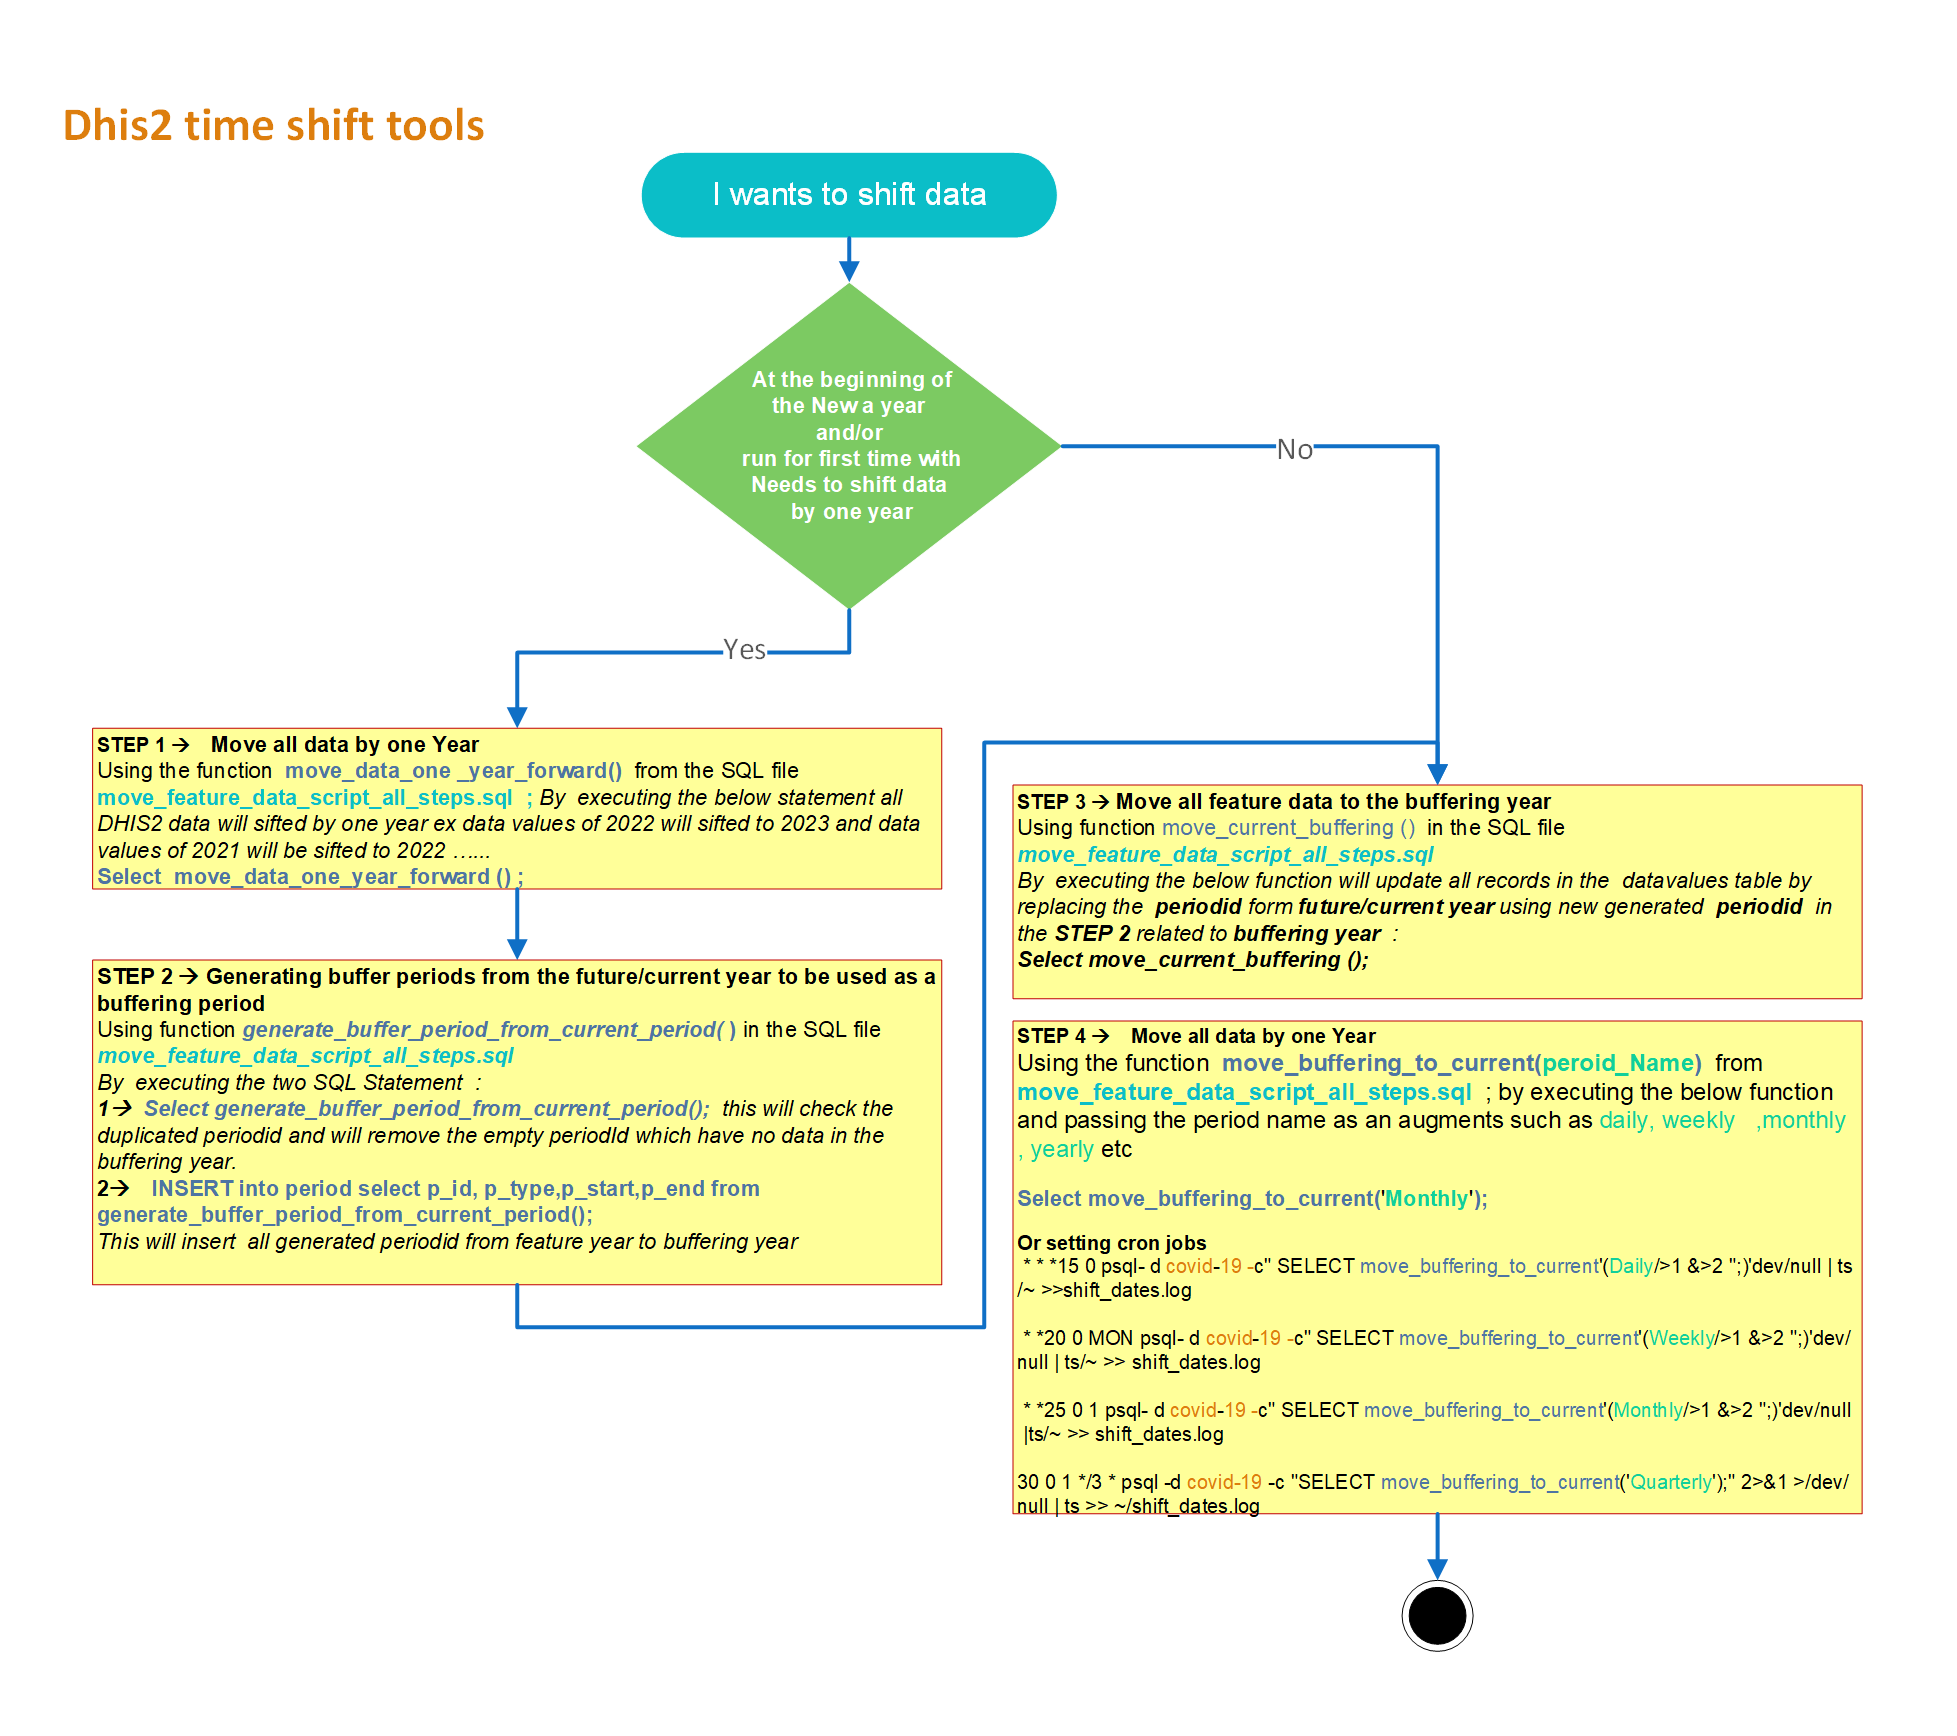
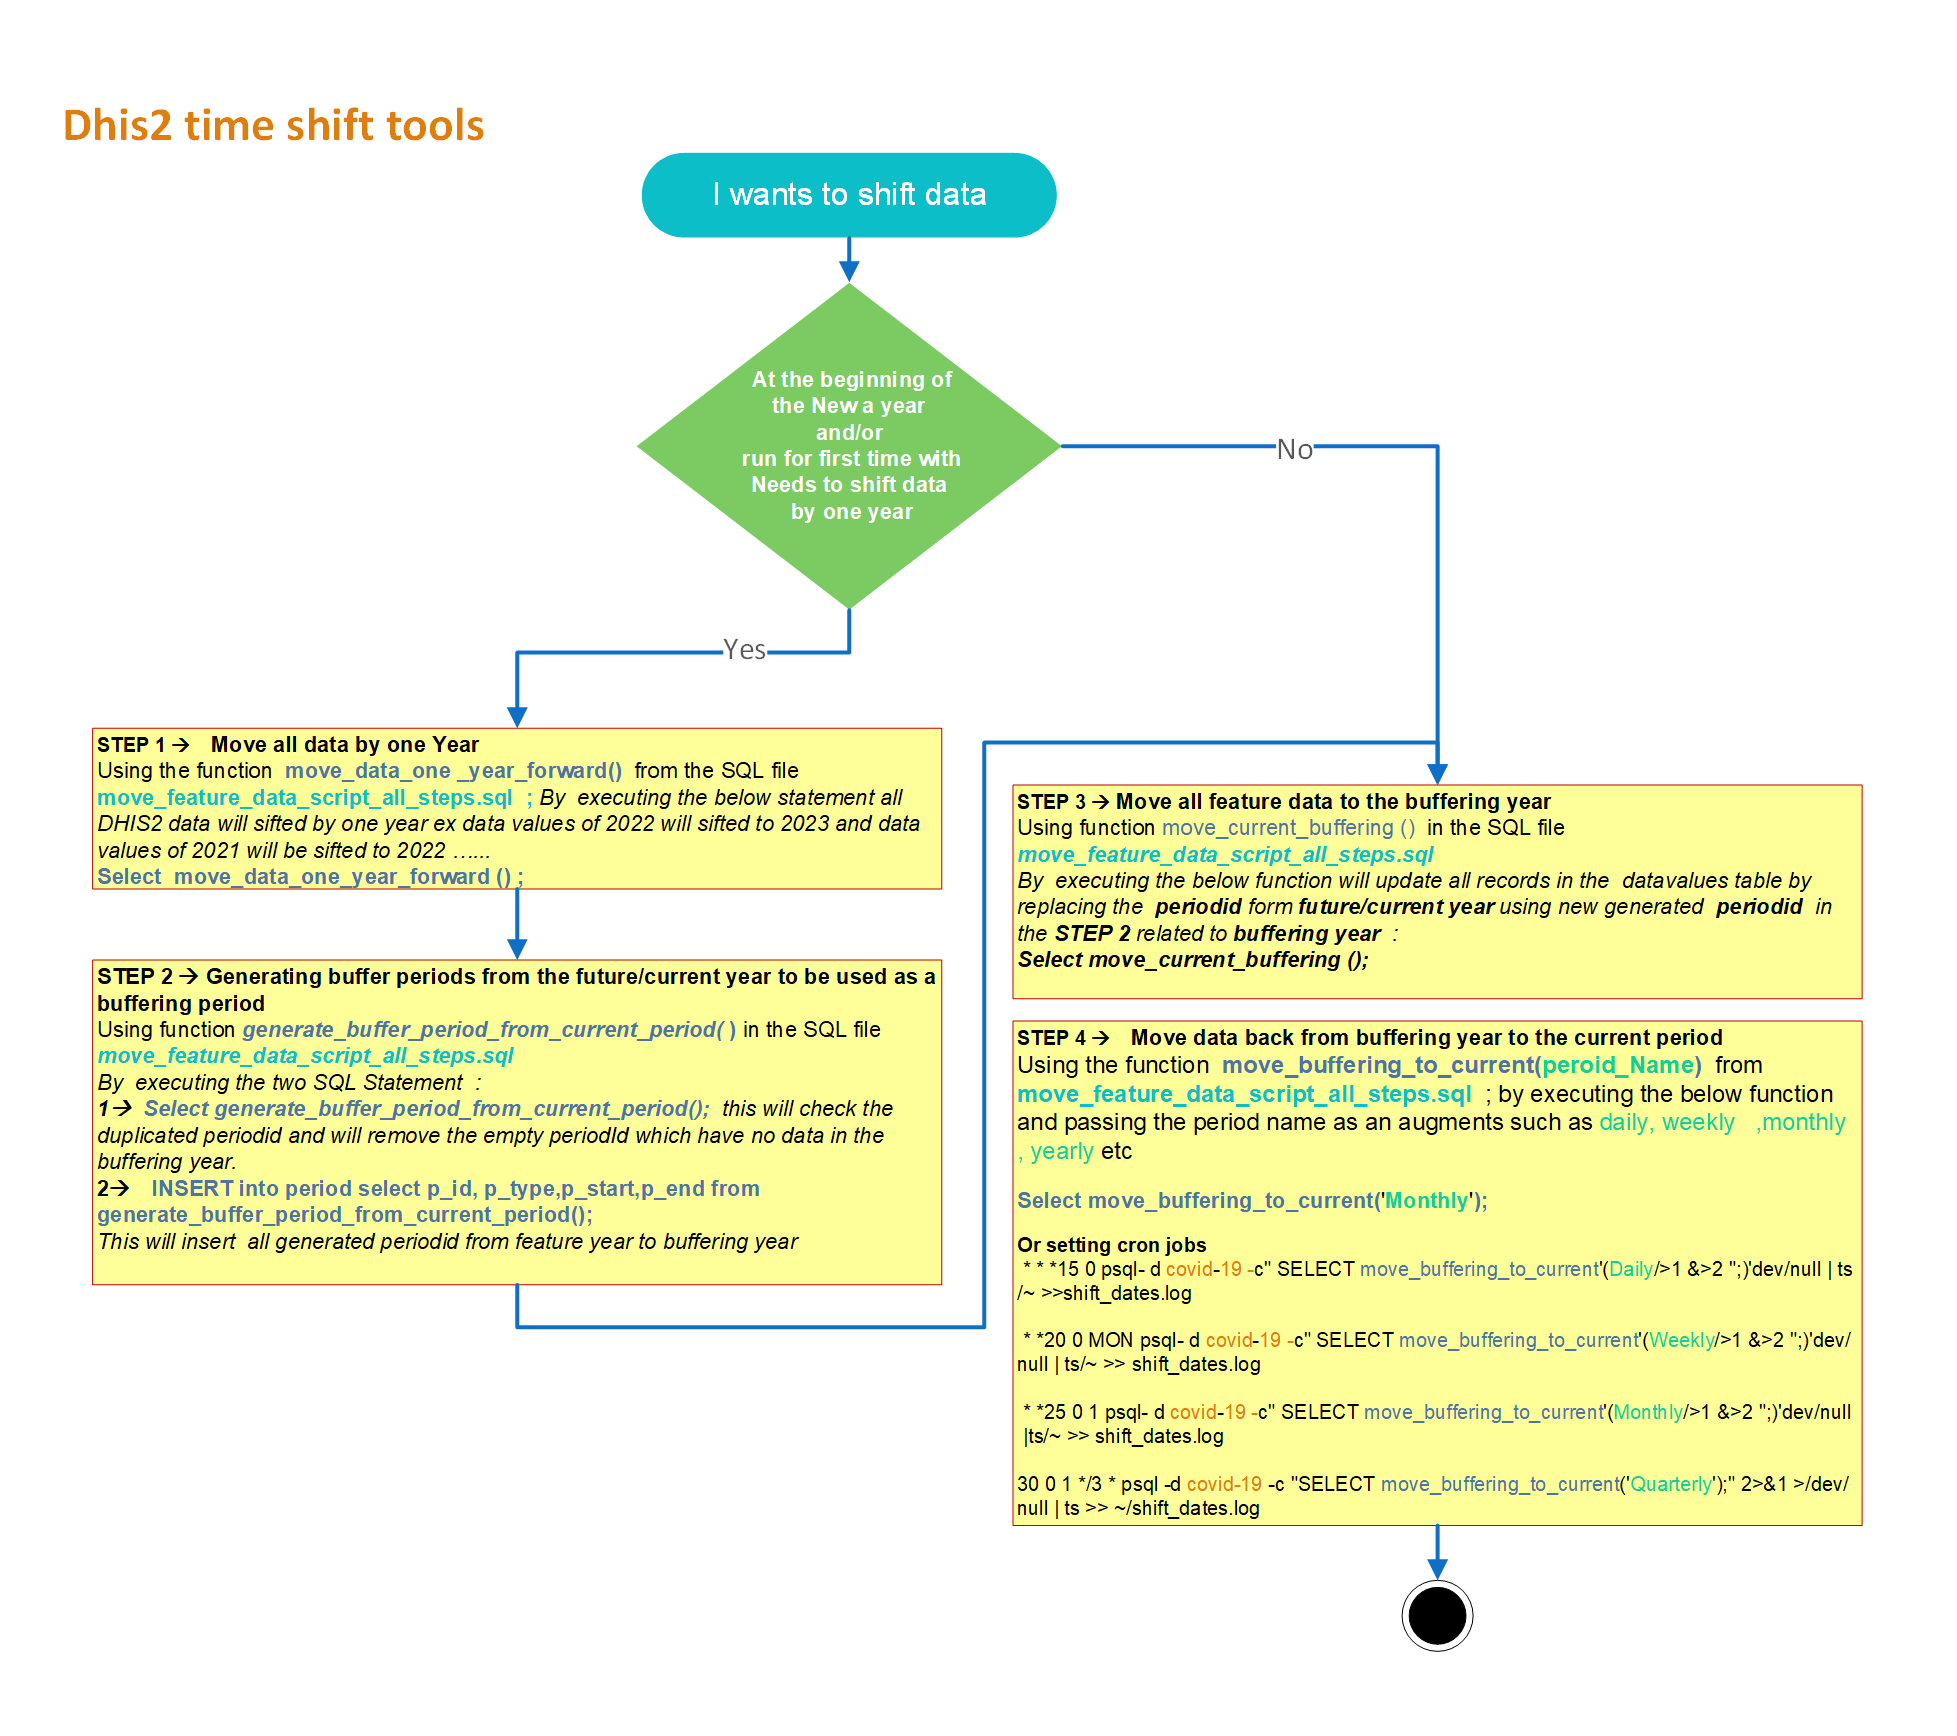
update readme and workflow diagram

Changed region(s): [[0.4987, 0.591, 0.9663, 0.9021]]

diff --git a/tools/dhis2-time-shift-tools/README.md b/tools/dhis2-time-shift-tools/README.md
@@ -20,15 +20,13 @@ Features of the system:
 
 ------
 
-## Part 1 : move moving data from one year to the next / back
+## Step 1 : move moving data from one year to the next / back
 
 ##### **Moving data might be used at the beginning of each year**
 
-  - Move data forward by using SQL file : `1.1-shift-all-data-one-year-forward.sql`
+- Using the function  **move_data_one _year_forward()**  from the SQL file **move_feature_data_script_all_steps.sql**  ; By  executing the below statement all DHIS2 data will sifted by one year ex data values of 2022 will sifted to 2023 and data values of 2021 will be sifted to 2022 …...
 
-    Using function **move_data_one_year_forward()** which will move all data, including Aggregate data and Tracker/Event data in the dhis2 database, forward by one year and tweak the dates to align periods correctly
-
-    Execution example:
+Execution example:
 
 ```sql
     select move_data_one_year_forward ( );
@@ -46,7 +44,9 @@ The below step is not necessary unless you need to rollback the move forward dat
     select move_data_one_year_backward ( );
 ```
 
-## Part 2: Generating buffer periods from the future/current year to be used as a buffering period
+------
+
+## Step 2: Generating buffer periods from the future/current year to be used as a buffering period
 
 The buffering periods will be the same **periodId** for the future/current year with an extra two digits from the buffering year.
 
@@ -62,36 +62,38 @@ periodid for month like October 2022 is : 6171618
 the new buffering periodid October 2010 will be : 617161810
 ```
 
-
-
   - **Generate buffering periods ids**
 
-    Using function **generate_buffer_period_from_current_period( )** in the SQL file : `2.0-generating-buffer-periods.sql`
+    Using function **generate_buffer_period_from_current_period( )** in the SQL file **move_feature_data_script_all_steps.sql**
 
-    **Example:**
+    1. ```sql
+       Select generate_buffer_period_from_current_period();
+       ```
+    
+        The Above  will check the duplicated **periodid** and will remove the empty **periodId** which have no data in the buffering year.
+    
+    2. ```sql
+       INSERT into period select p_id, p_type,p_start,p_end from generate_buffer_period_from_current_period();
+       ```
+    
+       The above SQL line  will insert  all generated **periodid** from **feature year** to **buffering year**
 
+------
+
+## STEP 3 Move all feature data to the buffering year 
+
+  - Using function **move_current_buffering ()**  in the SQL file **move_feature_data_script_all_steps.sql**
+By  executing the below function will update all records in the  datavalues table by replacing the  periodid form future/current year using new generated  **periodid**  in the **STEP 2** related to **buffering year**  :  
+    
 ```sql
-INSERT into period select p_id, p_type,p_start,p_end
-from generate_buffer_period_from_current_period();
+    select move_current_buffering ();
 ```
 
-  - **Move all feature data to the buffer period**
+------
 
-    Using the below SQL will update all datavalues in by replace the** periodid form future year by periodid from buffering year .
+## STEP 4: **Move data back from buffering year to the current period** 
 
-    By executing SQL script in file : `3.0-move-all-future-years-to-buffer-year.sql` by using function : `move_current_buffering ()` at the beginning of the year
-
-    **Example :**
-
-    ```sql
-    select move_current_buffering ();
-    ```
-
-  - **Move data back from buffering year to the current period**
-
-    By executing SQL script in file : `4.0-move-all-buffer-years-to-current-year.sql`
-
-    by using function : `move_buffering_to_current (period_type text)` in cron jobs for each period type respectively to move data back from buffering year/period to current year/period
+  - Using the function  **move_buffering_to_current**(***peroid_Name***)  from   **move_feature_data_script_all_steps.sql**  ; by executing the below function and passing the period name as an augments such as **Daily**, **Weekly**   ,**Monthly** , **Yearly** etc 
 
     **Example**
 
